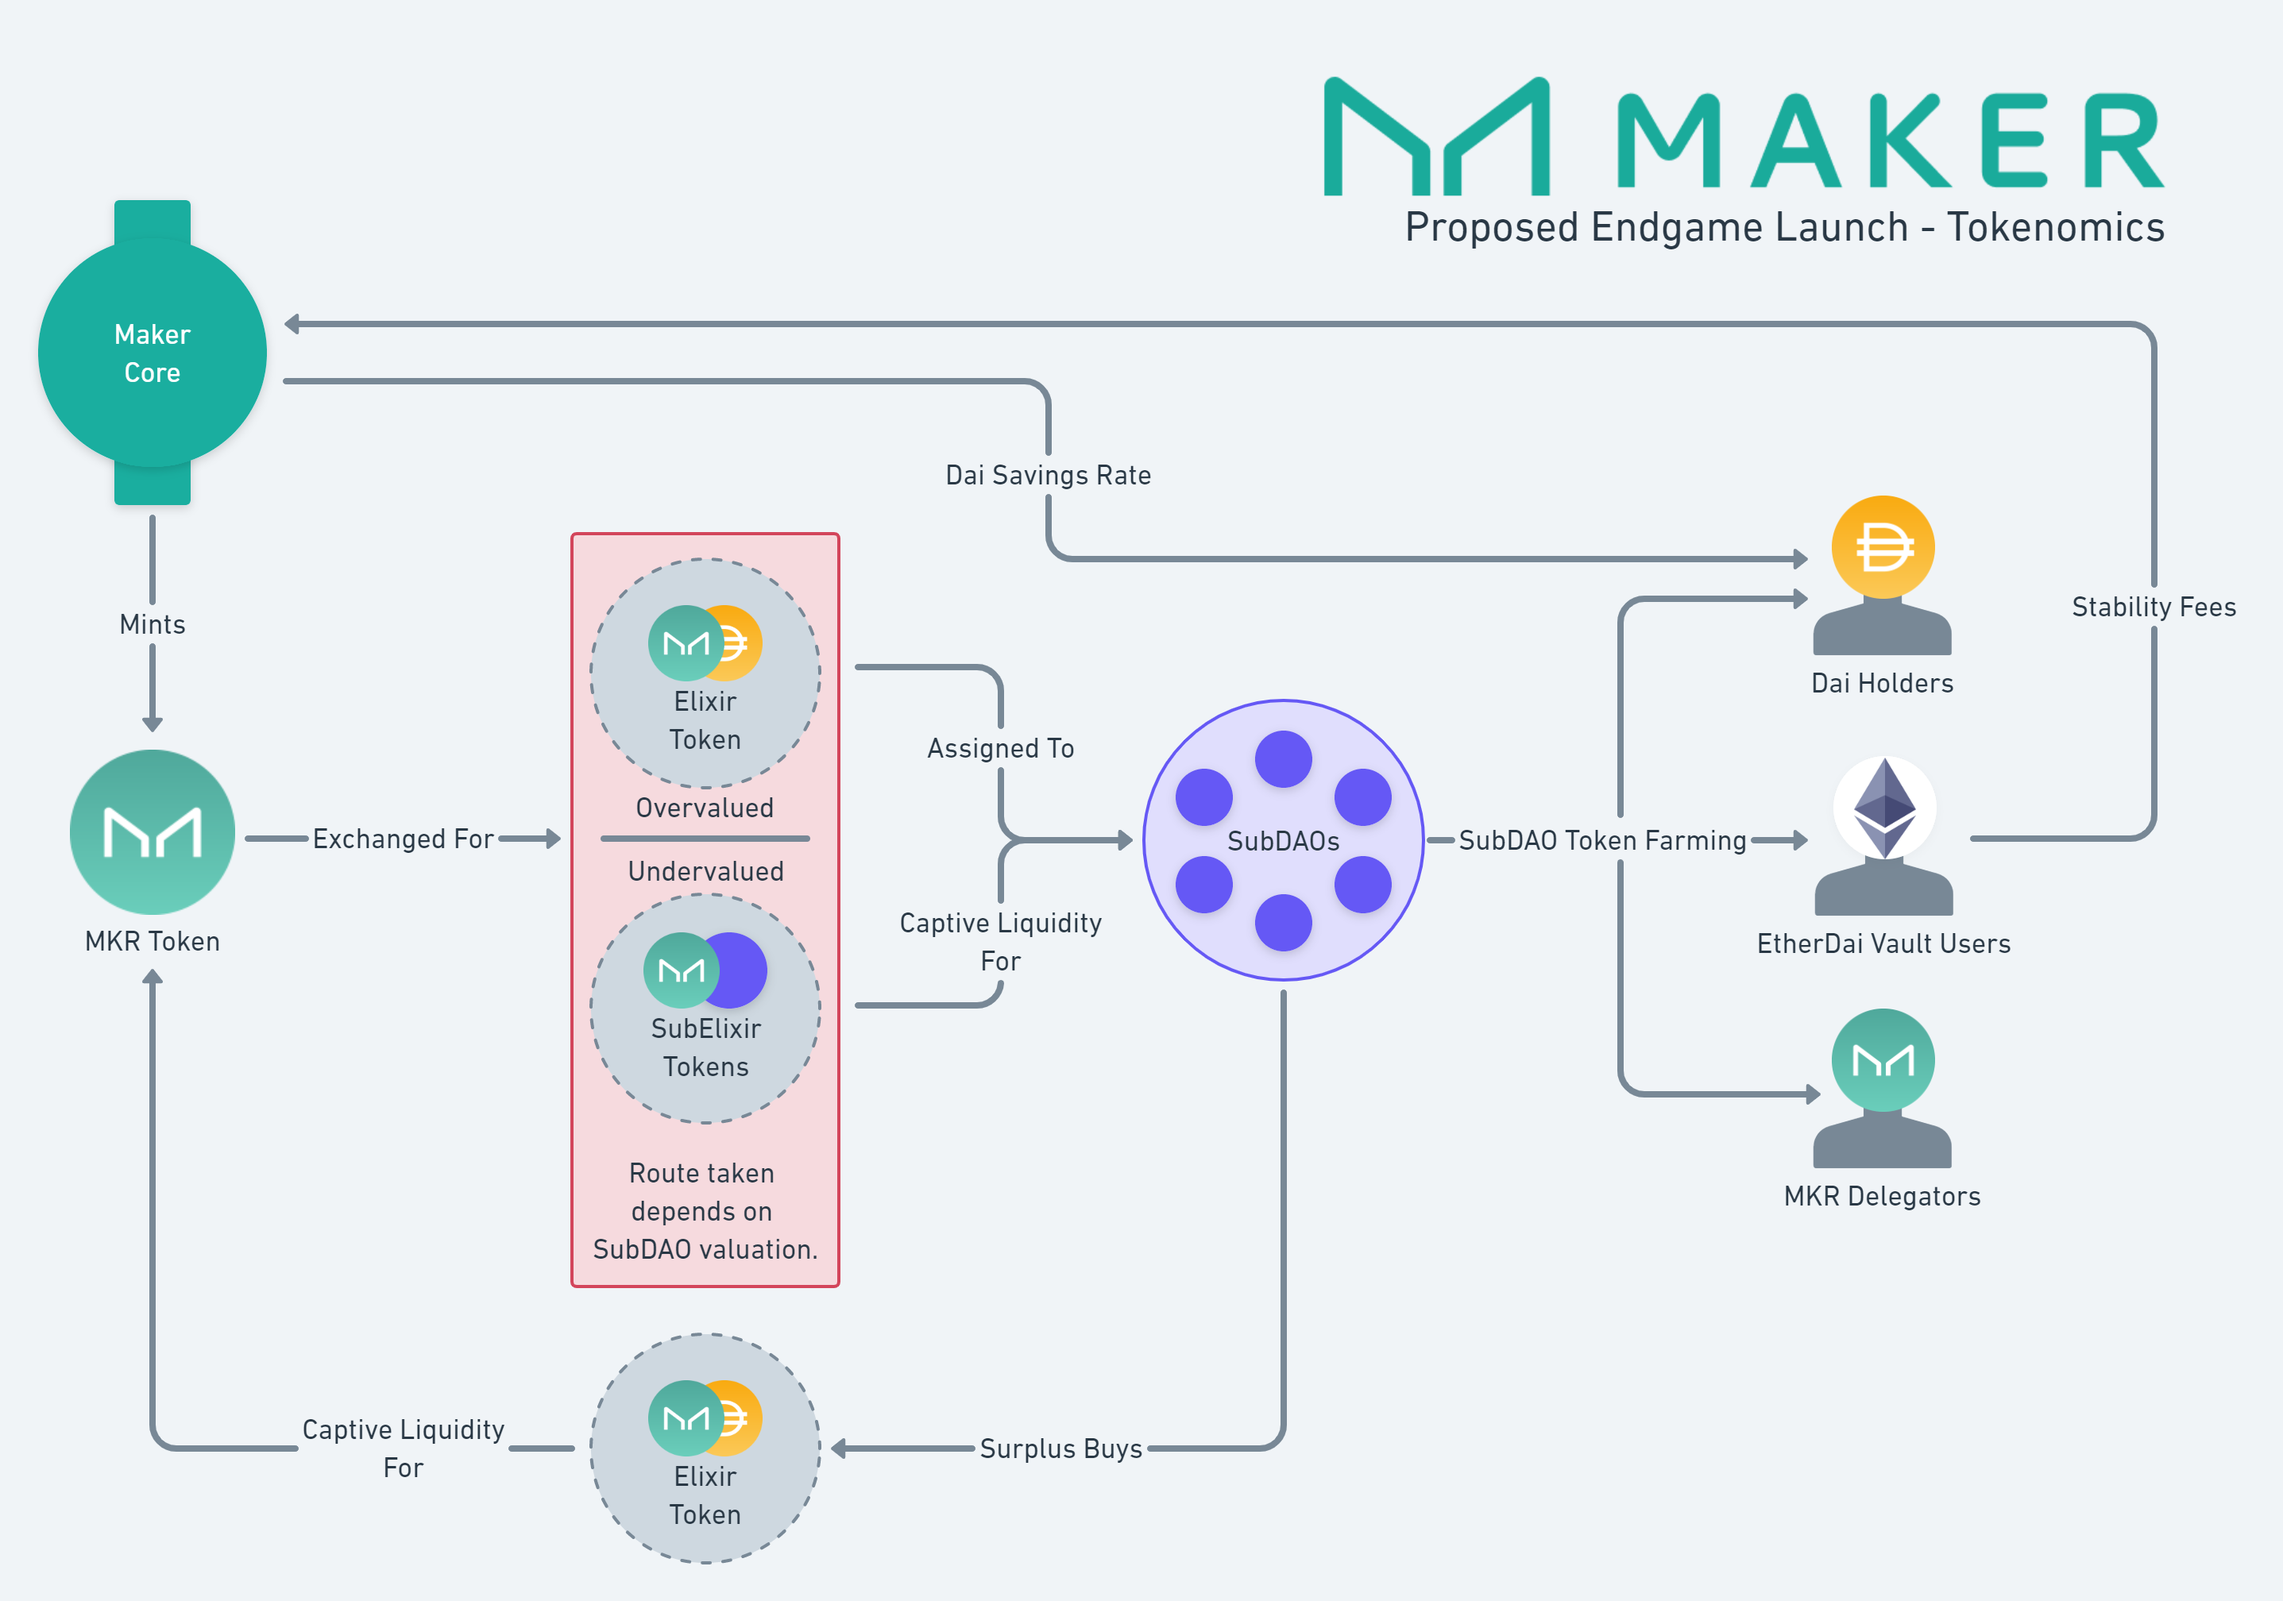
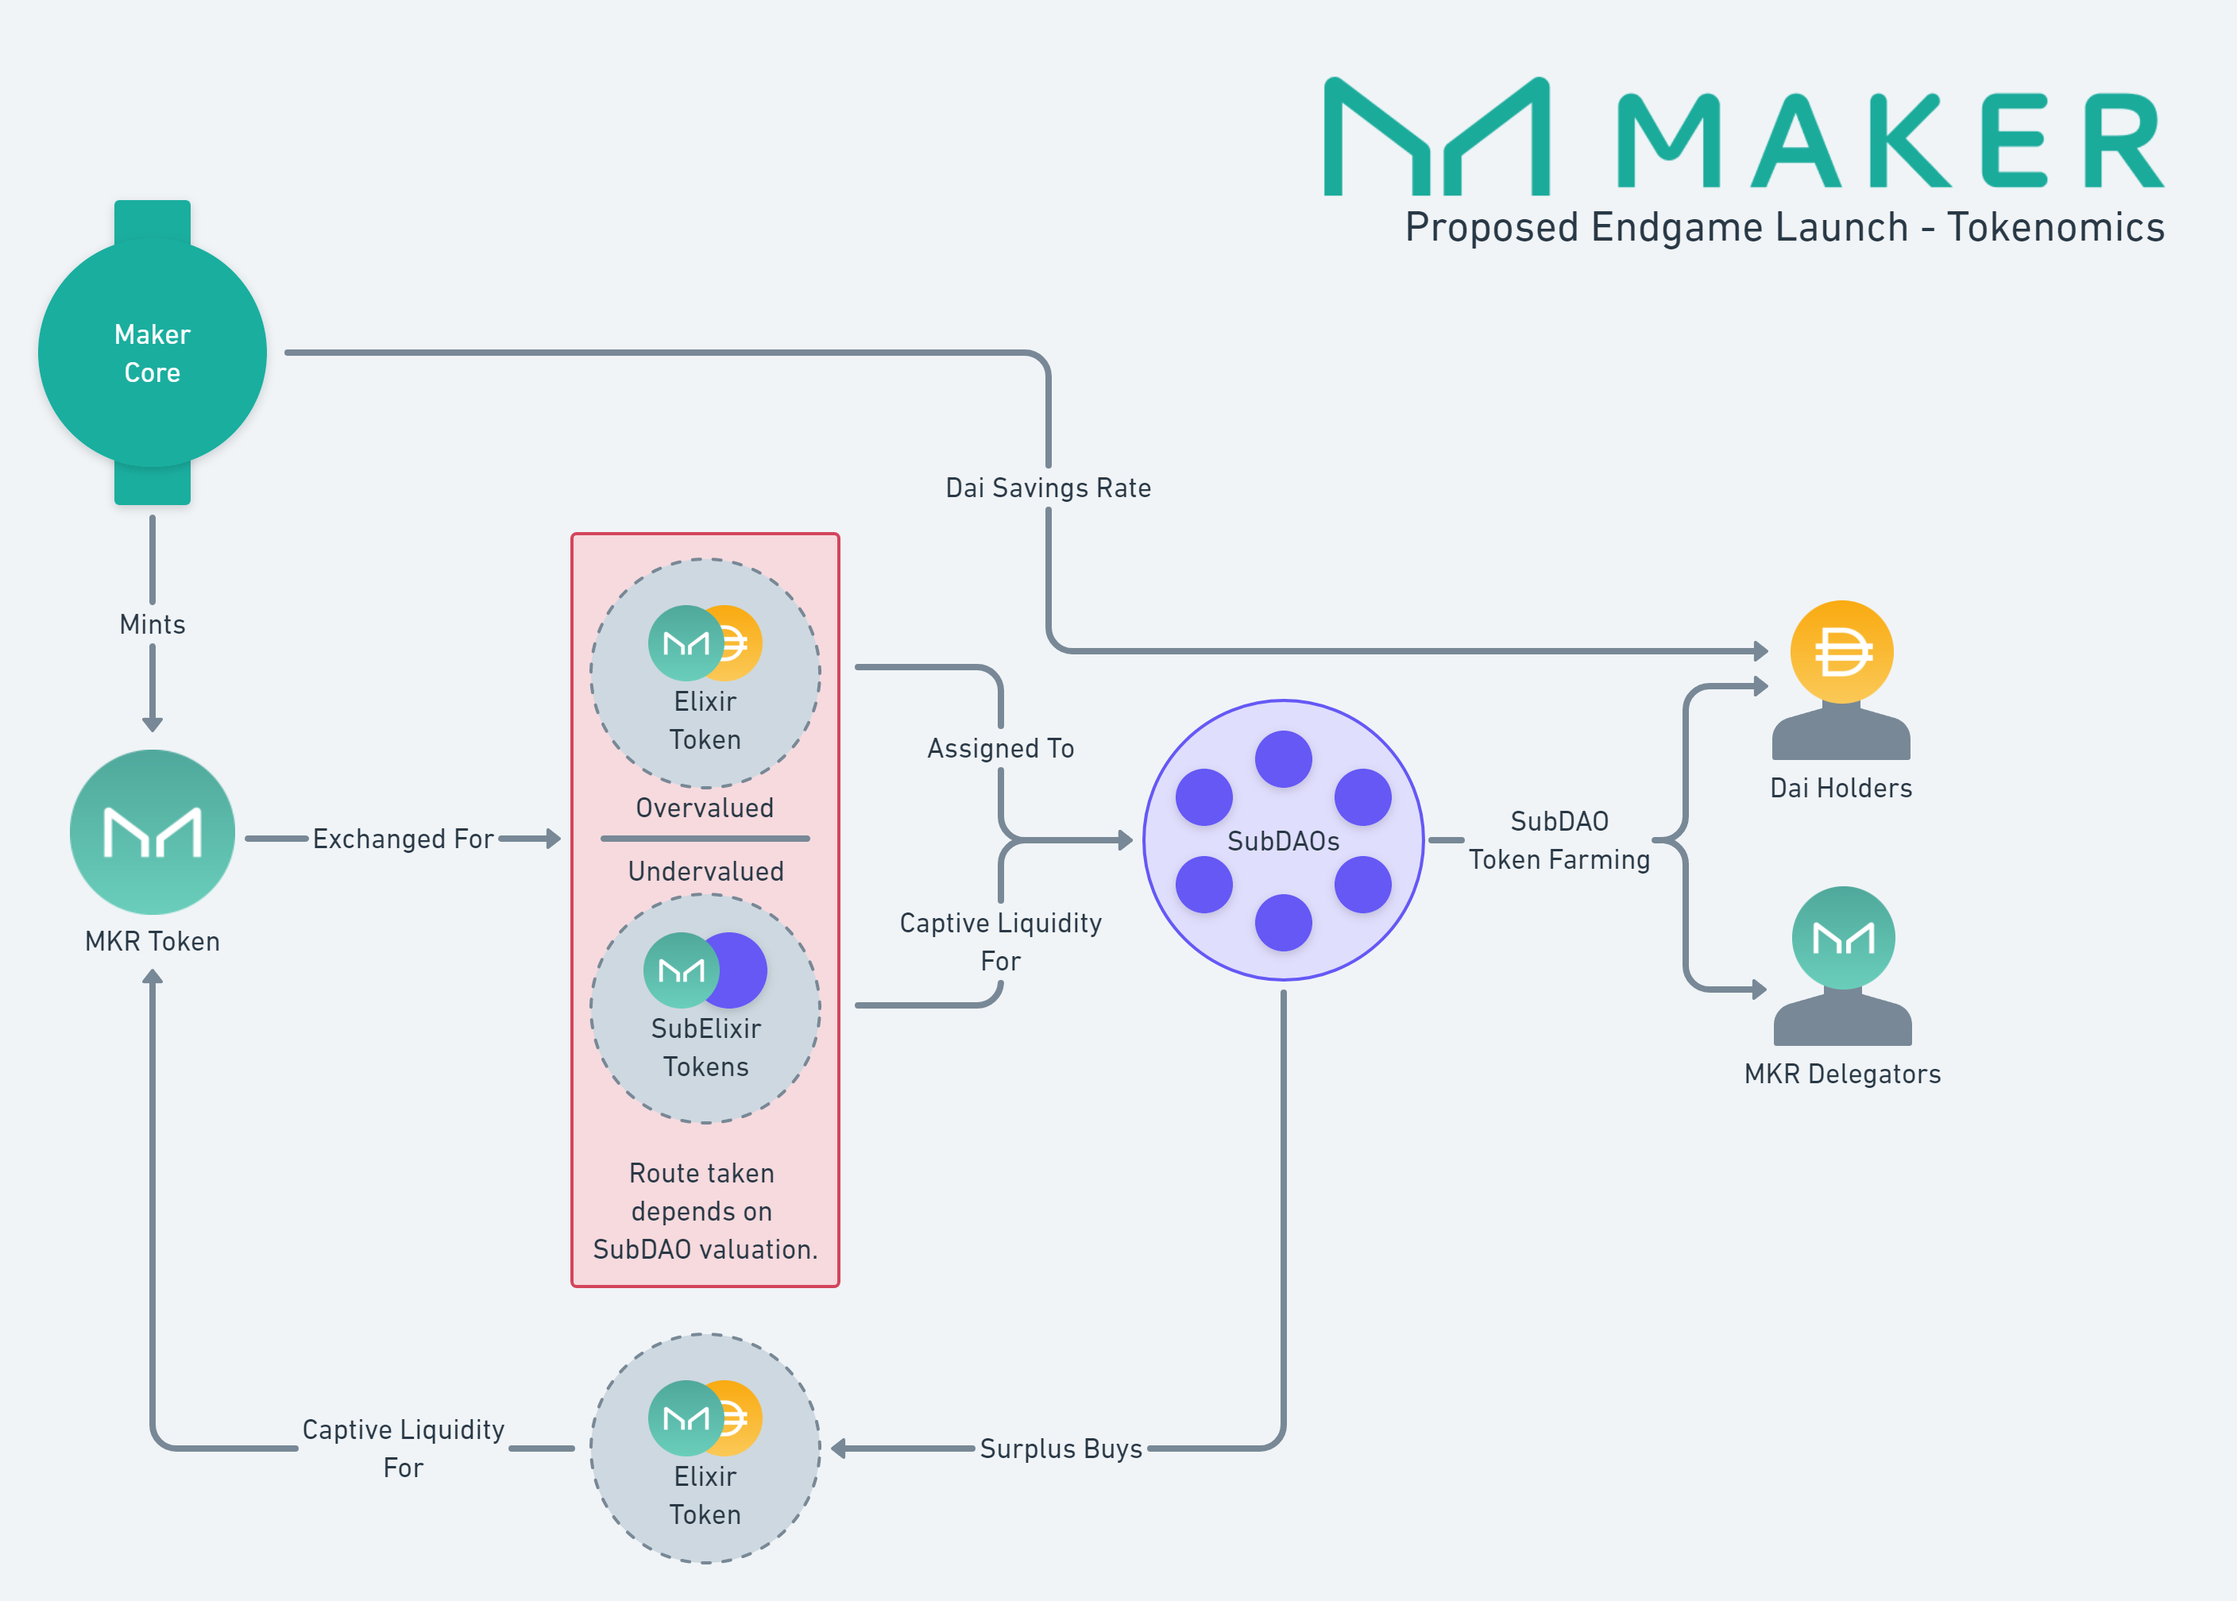
Update subDAO token farming distribution

diff --git a/tokenomics/subdao-tokenomics.md b/tokenomics/subdao-tokenomics.md
@@ -13,8 +13,6 @@ There are a multiple goals that Maker intends to meet via the SubDAO tokenomics.
 1. To distribute the ownership of each SubDAO as widely as possible.
 2. To ensure that SubDAO creation drives value to Maker Core in the form of:
     * Dai demand
-    * Stability Fees
-    * EtherDai adoption
     * Governance participation
 3. To incentivize talented individuals to work to make each SubDAO a success.
 
@@ -46,11 +44,9 @@ Additionally, each SubDAO emits 3% of their total supply each year. These emissi
 
 ## SubDAO Token Farming
 
-20% of the initial SubDAO token distribution is farmable by Dai holders.
+50% of the initial SubDAO token distribution is farmable by Dai holders.
 
-40% of the initial SubDAO token distriubtion is farmable by [EtherDai](etherdai.md) vault owners.
-
-40% of the initial SubDAO token distribution is farmable by MKR holders that are active in Maker Core governance.
+50% of the initial SubDAO token distribution is farmable by MKR holders that are active in Maker Core governance.
 
 ## SubDAO Token Burn
 
